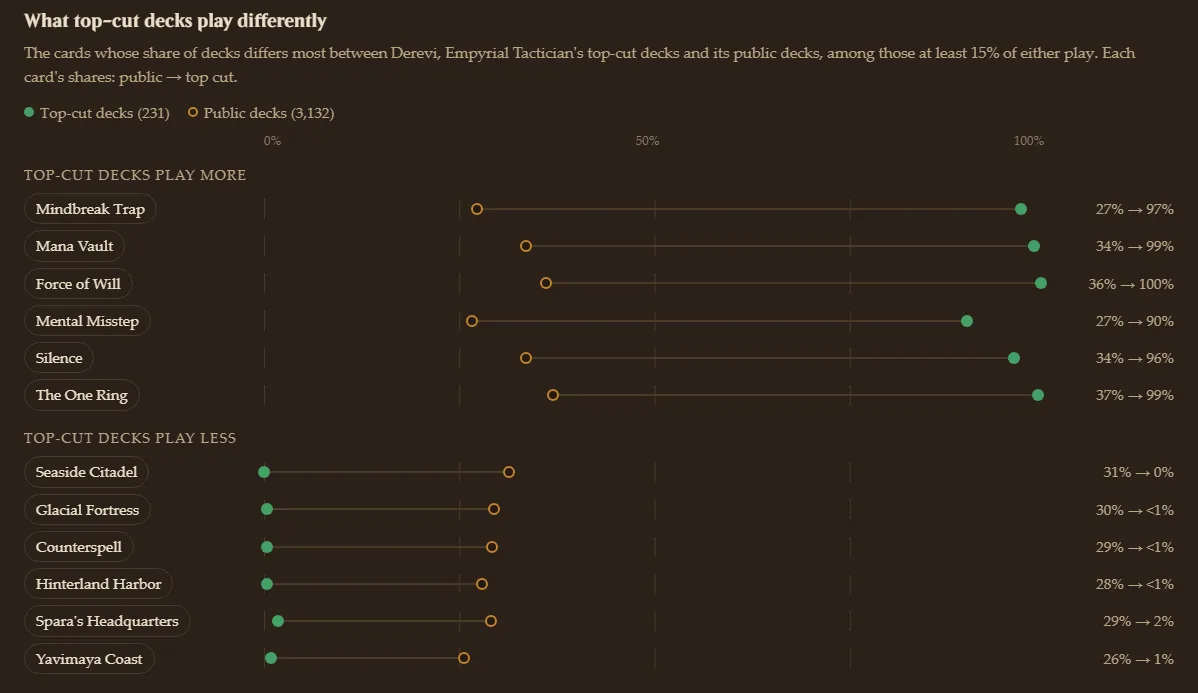
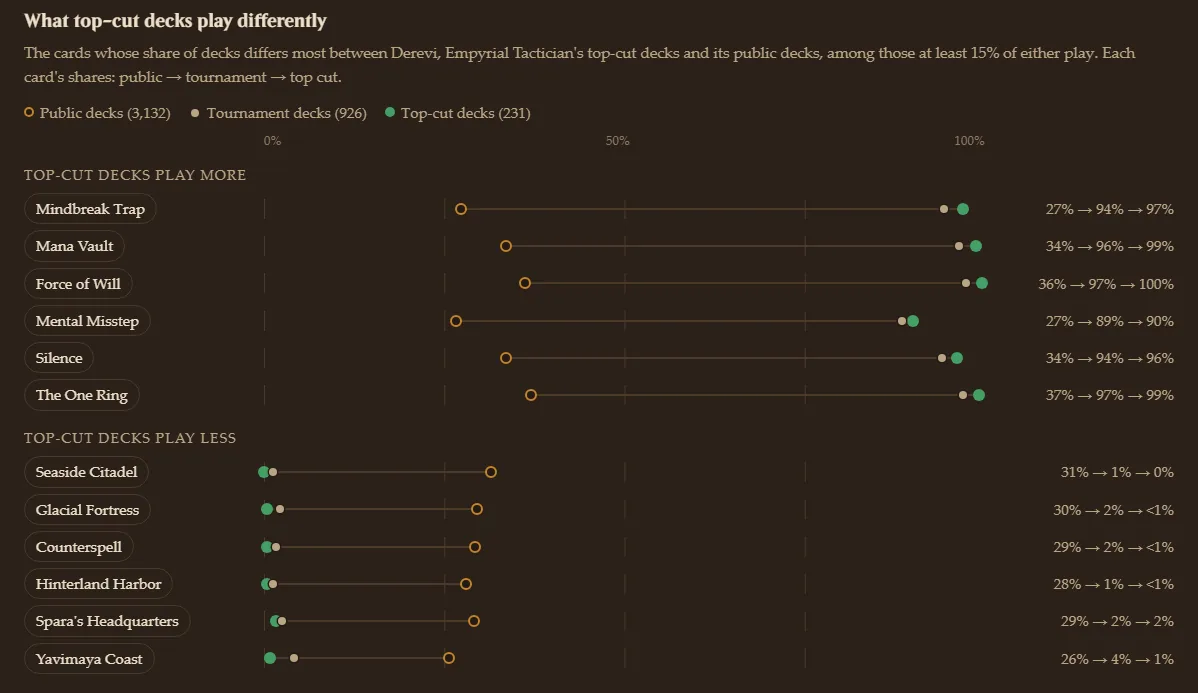
What top-cut decks play differently: three dots a card (public, tournament, top cut), each popping up its share and decks when pointed at, tapped or tabbed to; shares no longer wrap

diff --git a/site/app.js b/site/app.js
@@ -1308,28 +1308,52 @@ async function showCommander(key) {
     lands: new Set(cards.flatMap((c, p) => (index.columns.types[c] & landBit ? [p] : []))),
   })).catch(err => { tournamentShard = null; throw err; }));
   // The cards these tournament decks play most differently from the build's public decks (and
-  // bracket's), each a row with a dot for each on a 0–100% track
-  function showAverageVs(g, from, members, counts) {
+  // bracket's), each a row with a dot on a 0–100% track for its share of the public decks, of every
+  // tournament deck and of the top-cut ones (the middle dot tells a card every cEDH deck plays from one
+  // the decks that made the cut lean on more)
+  const OVERLAP = 0.04; // dots this close (of the 0–100% track) share a pop-up
+  function showAverageVs(g, from) {
     const plays = (cards, k) => new Map(cards.flatMap((c, p) => (k[p] ? [[c, k[p]]] : [])));
-    const pub = { plays: plays(shard.cards, playCounts(shard, g.members)), decks: g.members.length };
-    const { more, less } = playedDifferently(pub, { plays: plays(from.cards, counts), decks: members.length });
-    const these = averageFrom === "topcut" ? "top-cut decks" : "tournament decks";
+    const of = (s, members) => ({ plays: plays(s.cards, playCounts(s, members)), decks: members.length });
+    const all = from.decks.map((_, i) => i);
+    const cut = all.filter(i => from.decks[i].topCut === 2);
     const publicName = `public decks${g.all ? "" : ` (${g.name})`}`;
+    const groups = [{ key: "public", name: publicName, ...of(shard, g.members) },
+      { key: "tournament", name: "tournament decks", ...of(from, all) },
+      ...(cut.length >= MIN_AVERAGE_DECKS ? [{ key: "topcut", name: "top-cut decks", ...of(from, cut) }] : [])];
+    const picked = groups.find(x => x.key === averageFrom);
+    const { more, less } = playedDifferently(groups[0], picked);
+    const these = picked.name;
     const decksOf = k => `${k.toLocaleString()} ${k === 1 ? "deck" : "decks"}`;
     const pct = x => (x > 0 && x < 0.005 ? "<1%" : percent(x)); // one deck in 231 isn't none
+    const share = (x, card) => (x.plays.get(card) ?? 0) / x.decks;
+    const label = x => `${x.name[0].toUpperCase()}${x.name.slice(1)} (${x.decks.toLocaleString()})`;
     $("average-vs-heading").textContent = `What ${these} play differently`;
     $("average-vs-lede").textContent = `The cards whose share of decks differs most between ${lead}'s ${these} and its `
-      + `${publicName}, among those at least 15% of either play. Each card's shares: public → ${averageFrom === "topcut" ? "top cut" : "tournament"}.`;
-    $("average-vs-tourney").textContent = `${these[0].toUpperCase()}${these.slice(1)} (${members.length.toLocaleString()})`;
-    $("average-vs-public").textContent = `${publicName[0].toUpperCase()}${publicName.slice(1)} (${g.members.length.toLocaleString()})`;
-    const row = r => el("li", { title: `${names[r.card]}: ${pct(r.a)} of ${publicName} (${decksOf(r.aDecks)}), `
-        + `${pct(r.b)} of ${these} (${decksOf(r.bDecks)})` },
-      cardButton(r.card, names),
-      el("div", { className: "vs-track" },
-        el("span", { className: "span", style: `left:${Math.min(r.a, r.b) * 100}%;width:${Math.abs(r.b - r.a) * 100}%` }),
-        el("span", { className: "dot public", style: `left:${r.a * 100}%` }),
-        el("span", { className: "dot tourney", style: `left:${r.b * 100}%` })),
-      el("span", { className: "shares", textContent: `${pct(r.a)} → ${pct(r.b)}` }));
+      + `${publicName}, among those at least 15% of either play. Each card's shares: `
+      + `${groups.map(x => ({ public: "public", tournament: "tournament", topcut: "top cut" })[x.key]).join(" → ")}.`;
+    $("average-vs-legend").replaceChildren(...groups.map(x => el("span", { className: x.key, textContent: label(x) })));
+    const row = r => {
+      const shares = groups.map(x => share(x, r.card));
+      const low = Math.min(...shares), high = Math.max(...shares);
+      return el("li", {},
+        cardButton(r.card, names),
+        // the tournament dot is drawn last and smallest, so it shows even on top of the top-cut one
+        el("div", { className: "vs-track" },
+          el("span", { className: "span", style: `left:${low * 100}%;width:${(high - low) * 100}%` }),
+          ...[0, 2, 1].filter(i => i < groups.length).map(i => {
+            // pointing at (or tapping, or tabbing to) a dot pops up its share, and those of the dots on top of
+            // it (too close to point at apart, on a phone), kept inside the track at its ends
+            const tip = groups.flatMap((x, j) => (Math.abs(shares[j] - shares[i]) < OVERLAP
+              ? [`${label(x).replace(/ \(.*/, "")}: ${pct(shares[j])} (${decksOf(x.plays.get(r.card) ?? 0)})`] : [])).join("\n");
+            const side = shares[i] < 0.35 ? " tip-start" : shares[i] > 0.65 ? " tip-end" : ""; // opens inward
+            const dot = el("span", { className: `dot ${groups[i].key}${side}`, style: `left:${shares[i] * 100}%`, tabIndex: 0,
+              ariaLabel: `${names[r.card]}, ${tip.replaceAll("\n", ", ")}` });
+            dot.dataset.tip = tip;
+            return dot;
+          })),
+        el("span", { className: "shares", textContent: shares.map(pct).join(" → ") }));
+    };
     const group = (label, rows) => (rows.length ? [el("li", { className: "group", textContent: label }), ...rows.map(row)] : []);
     const scale = el("li", { className: "scale", ariaHidden: "true" }, el("span"),
       el("div", { className: "vs-track" }, ...["0%", "50%", "100%"].map(x => el("span", { textContent: x }))), el("span"));
@@ -1365,7 +1389,7 @@ async function showCommander(key) {
     const counts = playCounts(from, members);
     const share = p => counts[p] / members.length;
     $("average-vs").hidden = averageFrom === "public";
-    if (averageFrom !== "public") showAverageVs(g, from, members, counts);
+    if (averageFrom !== "public") showAverageVs(g, from);
     const average = averageDeck(from, members, landsOf);
     const basics = Math.max(0, 100 - leaders.length - average.spells.length - average.lands.length);
     const kinds = colors.length ? colors.map(c => BASIC_OF[c]) : ["Wastes"];
@@ -1489,7 +1513,8 @@ async function showCommander(key) {
       + "build and bracket picked above. Tournament decks: every cEDH tournament list of the last 2 years, wherever it "
       + `placed; Top cut: only those that made their event's top cut. Each needs ${MIN_AVERAGE_DECKS} decks or more. `
       + "With either, the cards those decks play most differently from the public decks: the 6 whose share of decks "
-      + "rose most and the 6 it fell most, among cards at least 15% of either plays.",
+      + "rose most and the 6 it fell most, among cards at least 15% of either plays, each with its share of the public, "
+      + "tournament and top-cut decks (point at a dot for its number of decks).",
     decklists: "Public decks from Moxfield and Archidekt, newest first, with their cards.",
   };
   const showViews = () => {

diff --git a/site/index.html b/site/index.html
@@ -496,16 +496,32 @@
     .vs-legend { display: flex; flex-wrap: wrap; gap: 4px 18px; margin: 8px 0 4px; font-size: 15px; color: var(--ink-soft); }
     .vs-legend span::before { content: ""; display: inline-block; width: 10px; height: 10px; border-radius: 50%; margin-right: 6px; vertical-align: 1px; }
     .vs-legend .public::before { border: 2px solid var(--vs-public); background: var(--paper); }
-    .vs-legend .tourney::before { background: var(--vs-tourney); border: 2px solid var(--vs-tourney); }
+    .vs-legend .topcut::before { background: var(--vs-tourney); border: 2px solid var(--vs-tourney); }
+    .vs-legend .tournament::before { width: 8px; height: 8px; margin: 0 8px 0 2px; background: var(--ink-soft); }
     .vs-rows { list-style: none; margin: 6px 0 0; padding: 0; }
-    .vs-rows li { display: grid; grid-template-columns: minmax(0, 13em) 1fr 6.5em; align-items: center; gap: 12px; padding: 3px 0; }
+    .vs-rows li { display: grid; grid-template-columns: minmax(0, 13em) 1fr 10em; align-items: center; gap: 12px; padding: 3px 0; }
     .vs-rows .term { justify-self: start; max-width: 100%; overflow: hidden; text-overflow: ellipsis; white-space: nowrap; }
     .vs-rows .group { display: block; margin: 10px 0 2px; font-size: 14px; color: var(--ink-soft); letter-spacing: .08em; text-transform: uppercase; }
     .vs-track { position: relative; height: 20px; margin: 0 7px; background: linear-gradient(to right, var(--rule) 1px, transparent 1px) 0 0 / 25% 100%; }
     .vs-track .span { position: absolute; top: 9px; height: 2px; background: var(--rule); }
     .vs-track .dot { position: absolute; top: 4px; width: 12px; height: 12px; margin-left: -6px; border-radius: 50%; }
     .vs-track .public { border: 2px solid var(--vs-public); background: var(--paper); }
-    .vs-track .tourney { background: var(--vs-tourney); }
+    .vs-track .topcut { background: var(--vs-tourney); }
+    .vs-track .tournament { top: 6px; width: 8px; height: 8px; margin-left: -4px; background: var(--ink-soft); box-shadow: 0 0 0 1.5px var(--paper); }
+    /* A dot's share pops up over it when pointed at, tapped or tabbed to; a wider target than the dot */
+    .vs-track .dot { cursor: default; z-index: 1; }
+    .vs-track .dot::before { content: ""; position: absolute; inset: -6px; border-radius: 50%; }
+    /* the small tournament dot often sits on the top-cut one: only its own size, so the one under it can still
+       be pointed at around it */
+    .vs-track .dot.tournament::before { inset: 0; }
+    .vs-track .dot:hover, .vs-track .dot:focus-visible { z-index: 3; outline: none; box-shadow: 0 0 0 3px var(--focus); }
+    .vs-track .dot[data-tip]:hover::after, .vs-track .dot[data-tip]:focus::after {
+      content: attr(data-tip); position: absolute; bottom: calc(100% + 8px); left: 50%; transform: translateX(-50%);
+      white-space: pre; padding: 3px 9px; /* a line per dot */ border-radius: 6px; font-size: 14px; line-height: 1.4;
+      background: var(--ink); color: var(--paper); box-shadow: var(--shadow-sm); pointer-events: none;
+    }
+    .vs-track .dot.tip-start[data-tip]::after { left: -4px; transform: none; }
+    .vs-track .dot.tip-end[data-tip]::after { left: auto; right: -4px; transform: none; }
     .vs-rows .shares { font-size: 15px; color: var(--ink-soft); font-variant-numeric: tabular-nums; text-align: right; }
     .vs-rows .scale { padding: 0; }
     .vs-rows .scale .vs-track { height: auto; background: none; display: flex; justify-content: space-between; font-size: 13px; color: var(--ink-faint); }
@@ -1091,7 +1107,7 @@
               <div id="average-vs" hidden>
                 <h3 class="sub-heading" id="average-vs-heading"></h3>
                 <p class="muted deck-lede" id="average-vs-lede"></p>
-                <div class="vs-legend"><span class="tourney" id="average-vs-tourney"></span><span class="public" id="average-vs-public"></span></div>
+                <div class="vs-legend" id="average-vs-legend"></div>
                 <ul class="vs-rows" id="average-vs-rows"></ul>
               </div>
               <div id="average"></div>

diff --git a/README.md b/README.md
@@ -204,9 +204,12 @@ time, a few KB after that).
    With Tournament decks or Top cut picked, the average deck also shows **what those decks play
    differently** from the public decks of the build and bracket picked: the cards whose share of
    decks differs most (`playedDifferently()` in `site/deck.js`), the 6 they play most more and the 6
-   most less, among the cards at least 15% of either plays, each with a dot for each on a 0–100%
-   track and its two shares. Both sets of decks are already loaded for the average deck, so it's
-   only counting.
+   most less, among the cards at least 15% of either plays. Each card has three dots on a 0–100%
+   track, its share of the public decks, of every tournament deck and of the top-cut ones, so a card
+   every cEDH deck plays (the two tournament dots together) stands apart from one the decks that made
+   the cut lean on more. Pointing at, tapping or tabbing to a dot pops up its share and deck count
+   (dots too close to point at apart share one). Both sets of decks are already loaded for the
+   average deck, so it's only counting.
 
    ![What Derevi's top-cut decks play differently: far more Mindbreak Trap, Mana Vault, Force of Will, Mental Misstep, Silence and The One Ring than its public decks, and almost none of Seaside Citadel, Glacial Fortress, Counterspell and Hinterland Harbor](docs/images/screenshot-topcut.webp)
 
